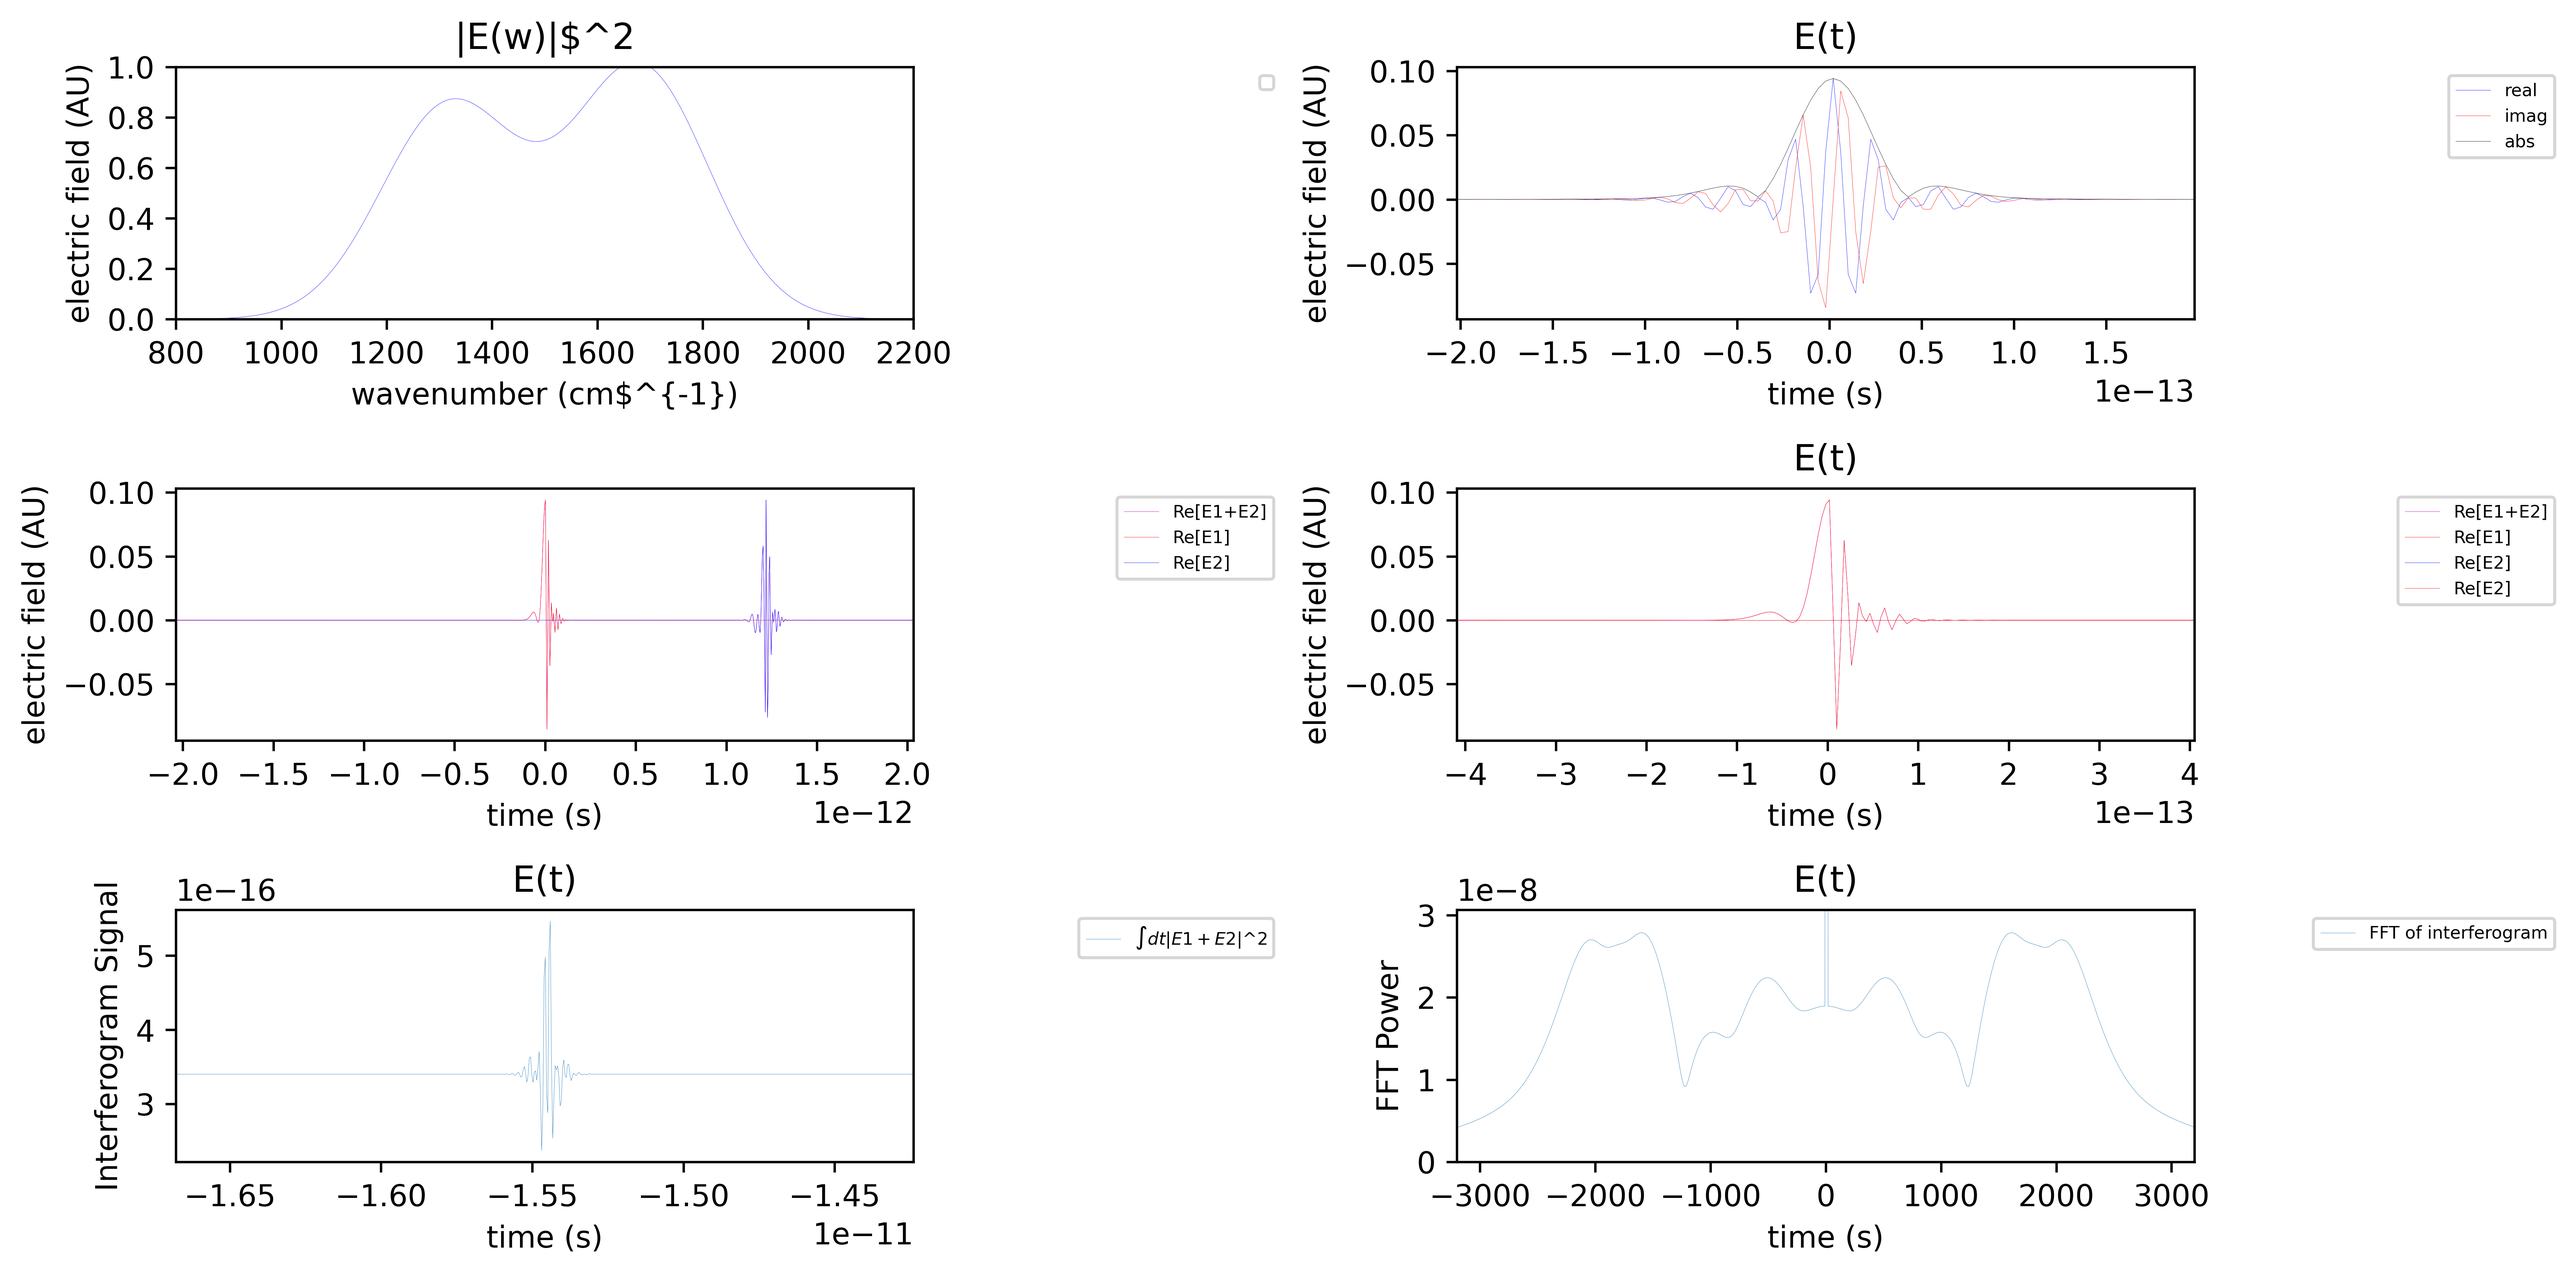
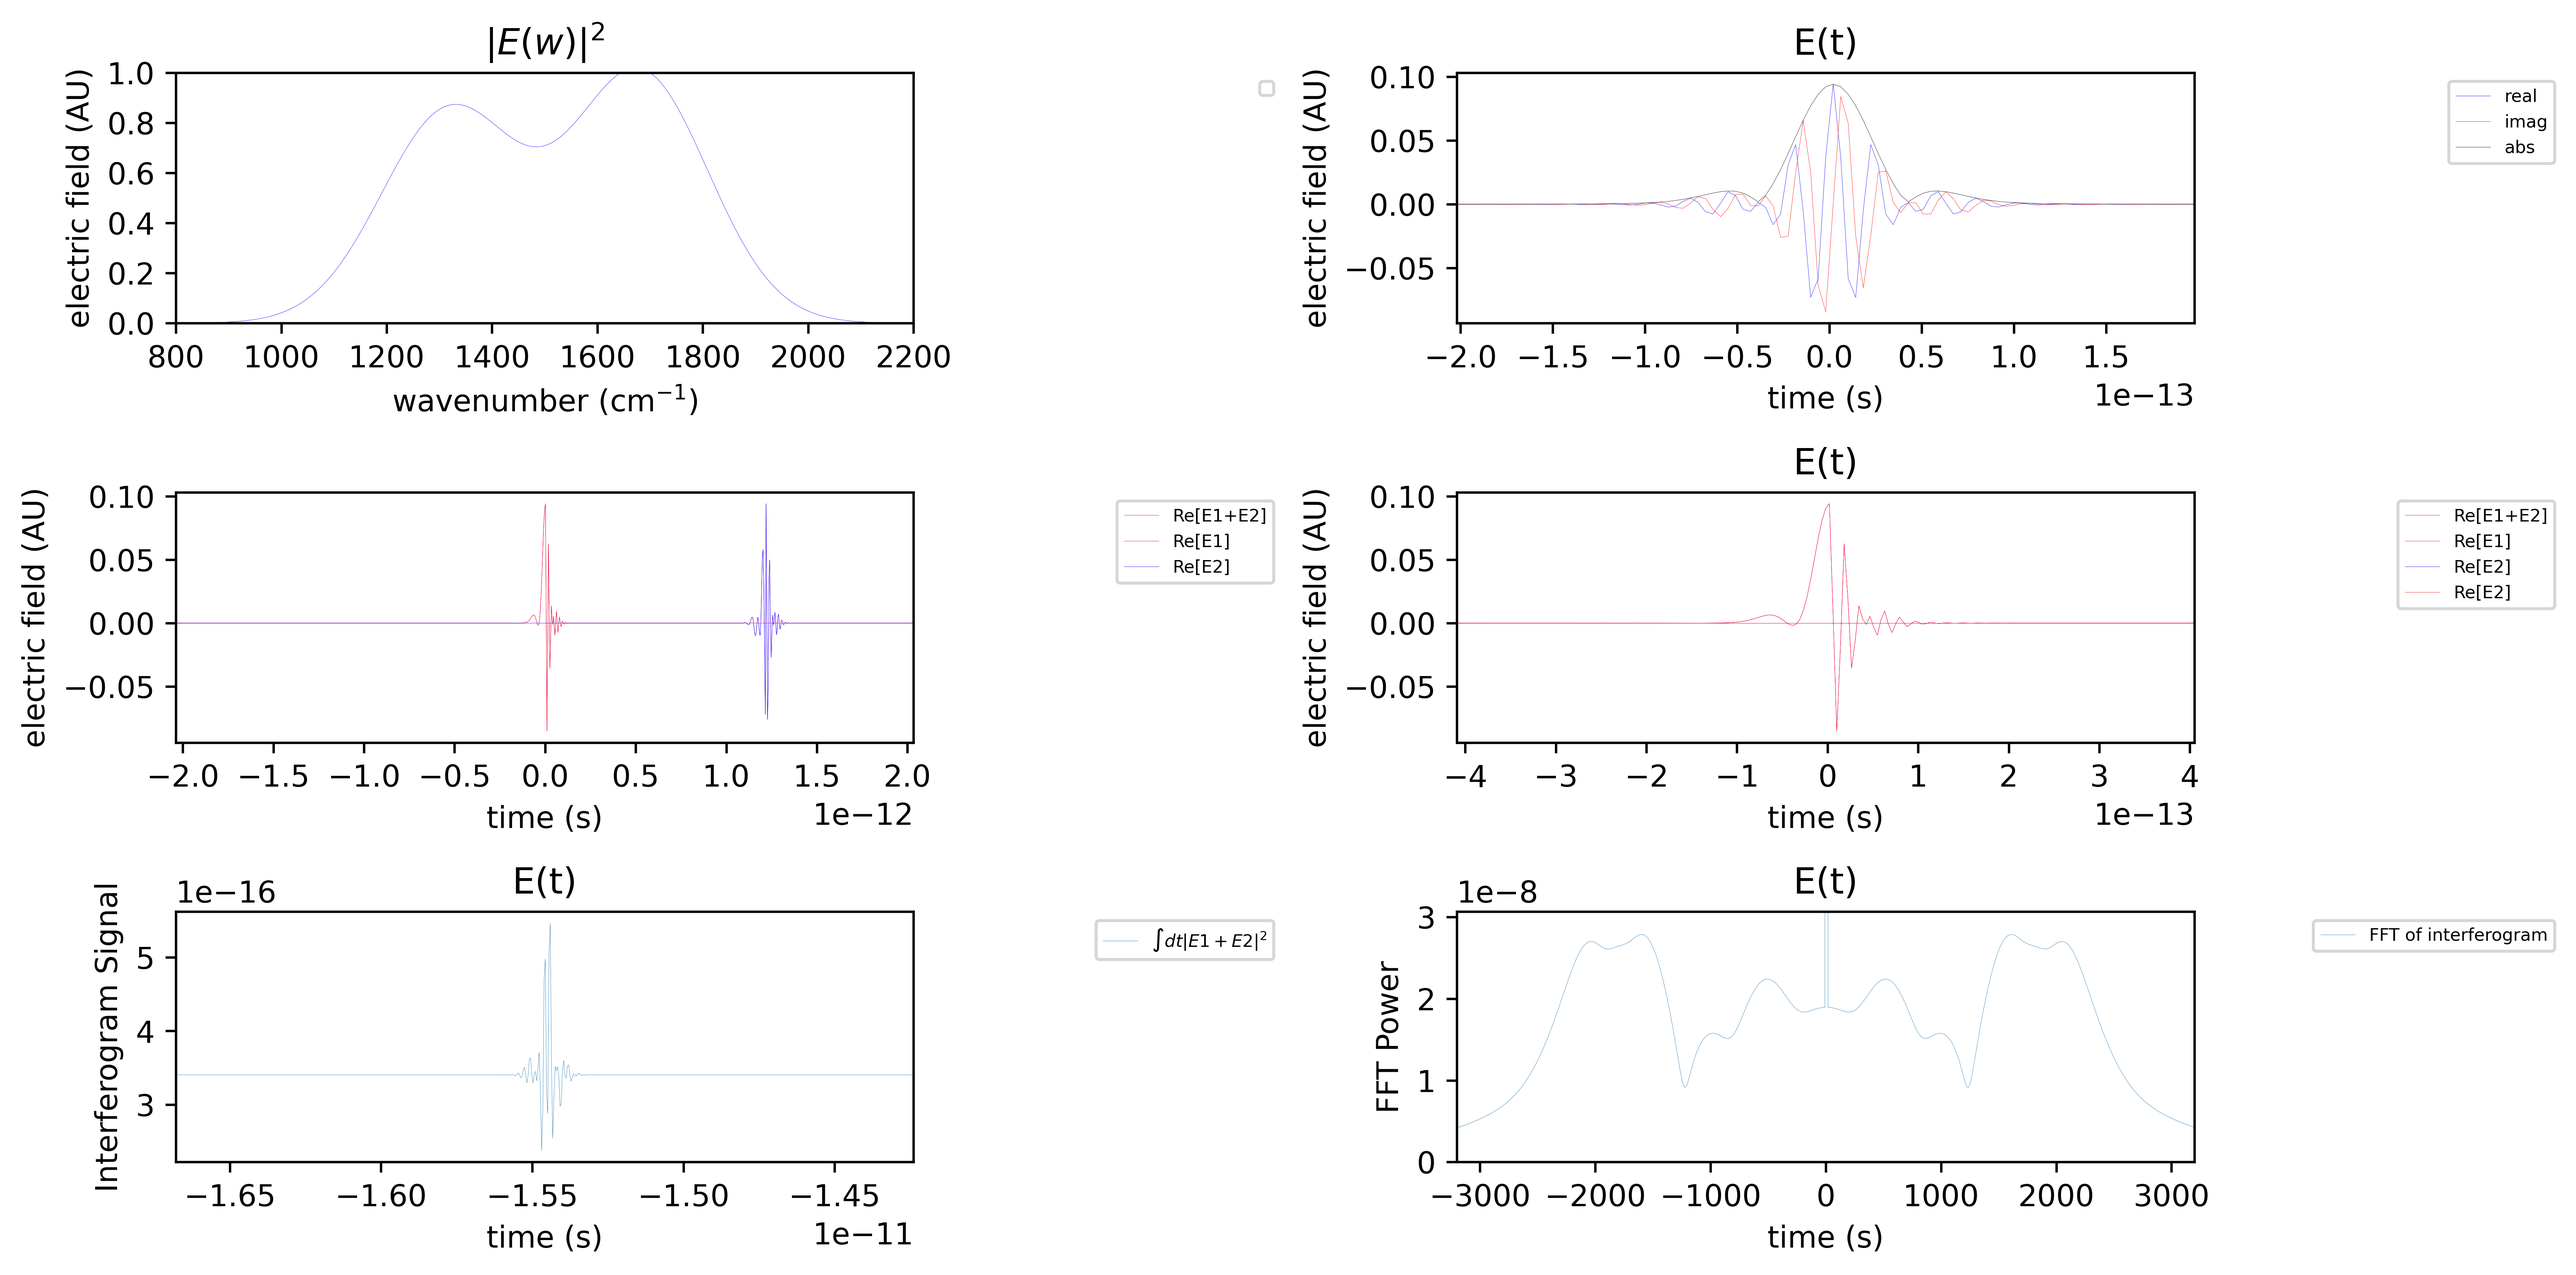
addex TeX labels

diff --git a/interf.py b/interf.py
@@ -31,13 +31,13 @@ def main(args):
     fig = plt.figure(dpi=600, figsize=[12, 6], num=1) #initialize figure A4 size
     lw = 0.1 #default linewidth
     lfs = 'xx-small'#legend font size
-    wlabel = 'wavenumber (cm$^{-1})' #w axis label
+    wlabel = 'wavenumber (cm$^{-1}$)' #w axis label
     Elabel = 'electric field (AU)' #electric field label
     tlabel = 'time (s)'
     gs = mpl.gridspec.GridSpec(3,2, figure=fig) #make two rows and three columns
 
     #Make first subplot
-    ax = fig.add_subplot(gs[0,0], title='|E(w)|$^2')
+    ax = fig.add_subplot(gs[0,0], title='$|E(w)|^2$')
     ax.plot(w, sig_w, 'b-', lw=lw)
     ax.set(xlabel=wlabel, ylabel=Elabel)
     ax.legend(fontsize=lfs, loc='best', bbox_to_anchor=[1, 0, 0.5, 1])
@@ -127,7 +127,7 @@ def main(args):
             
             #Make fifth subplot
             ax = fig.add_subplot(gs[2,0], title='E(t)')
-            ax.plot(t[0:n], interf_t[0:n], lw=lw, label='$\int dt |E1+E2|$^2')
+            ax.plot(t[0:n], interf_t[0:n], lw=lw, label='$\int dt |E1+E2|^2$')
             ax.set(xlabel=tlabel, ylabel='Interferogram Signal')
             ax.legend(fontsize=lfs, loc='best', bbox_to_anchor=[1, 0, 0.5, 1])
             ax.autoscale(enable=True, axis='x', tight=True)
